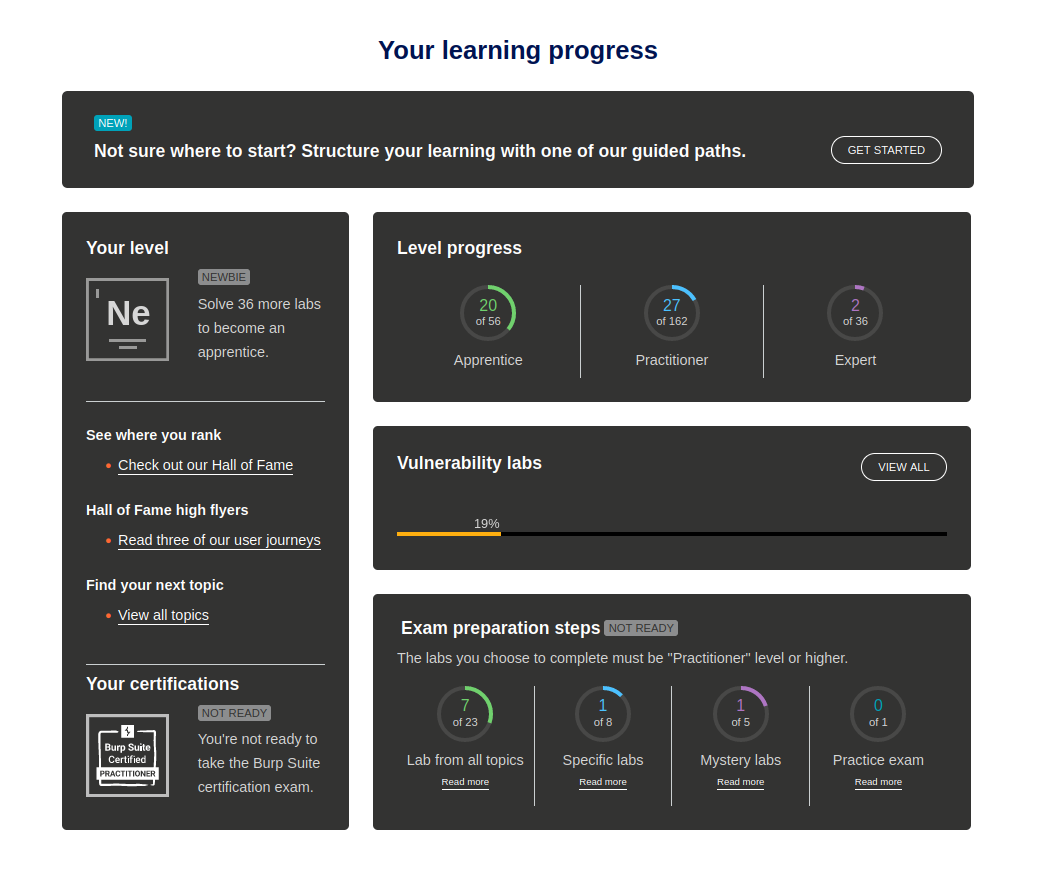
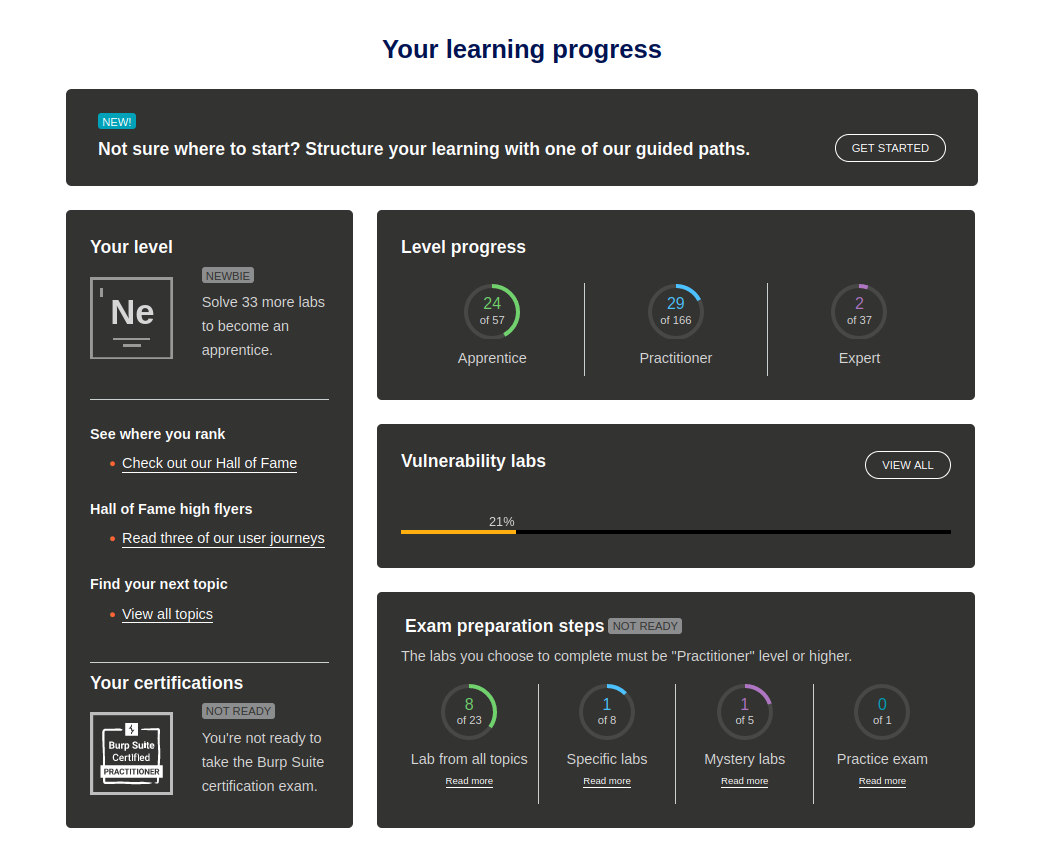
Updated stuff

diff --git a/README.md b/README.md
@@ -35,7 +35,7 @@ Although having JavaScript as my first contact with the field, I won't stop myse
 
 # My progress
 
-[Web Security Academy](![image](https://github.com/zetsuHQ/zetsuHQ/assets/127287685/85bb8b3b-5b29-4367-868a-adef3982ba70) (Nov 01, 2023)
+[Web Security Academy](![image](https://github.com/zetsuHQ/zetsuHQ/assets/127287685/85bb8b3b-5b29-4367-868a-adef3982ba70) (Dec 14, 2023)
 
 [HackTheBox](https://app.hackthebox.com/users/1528410)
 
